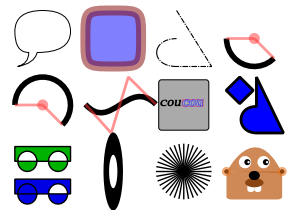
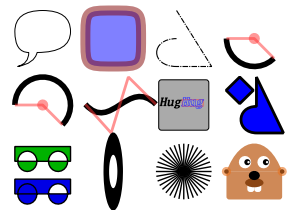
geometry: make line continuous in arcs and replace "coucou" with "HugHug" to test better ascent, descent and capheight of font

Changed region(s): [[0.7576, 0.6857, 0.9394, 0.8286], [0.5455, 0.4571, 0.697, 0.5143], [0.8182, 0.8, 0.8485, 0.8286]]

diff --git a/samples/geometry/geometry.go b/samples/geometry/geometry.go
@@ -80,7 +80,6 @@ func CurveRectangle(gc draw2d.GraphicContext, x0, y0,
 		}
 	}
 	gc.Close()
-
 	gc.SetStrokeColor(stroke)
 	gc.SetFillColor(fill)
 	gc.SetLineWidth(10.0)
@@ -125,9 +124,8 @@ func Arc(gc draw2d.GraphicContext, xc, yc, width, height float64) {
 	gc.SetFillColor(color.NRGBA{255, 0x33, 0x33, 0x80})
 	gc.SetLineWidth(width / 20)
 
-	gc.MoveTo(xc, yc)
-	gc.LineTo(xc+math.Cos(startAngle)*radiusX, yc+math.Sin(startAngle)*radiusY)
-	gc.MoveTo(xc, yc)
+	gc.MoveTo(xc+math.Cos(startAngle)*radiusX, yc+math.Sin(startAngle)*radiusY)
+	gc.LineTo(xc, yc)
 	gc.LineTo(xc-radiusX, yc)
 	gc.Stroke()
 
@@ -154,9 +152,8 @@ func ArcNegative(gc draw2d.GraphicContext, xc, yc, width, height float64) {
 	gc.SetFillColor(color.NRGBA{255, 0x33, 0x33, 0x80})
 	gc.SetLineWidth(width / 20)
 
-	gc.MoveTo(xc, yc)
-	gc.LineTo(xc+math.Cos(startAngle)*radiusX, yc+math.Sin(startAngle)*radiusY)
-	gc.MoveTo(xc, yc)
+	gc.MoveTo(xc+math.Cos(startAngle)*radiusX, yc+math.Sin(startAngle)*radiusY)
+	gc.LineTo(xc, yc)
 	gc.LineTo(xc-radiusX, yc)
 	gc.Stroke()
 
@@ -205,7 +202,7 @@ func FillString(gc draw2d.GraphicContext, x, y, width, height float64) {
 		Name:   "luxi",
 		Family: draw2d.FontFamilyMono,
 		Style:  draw2d.FontStyleBold | draw2d.FontStyleItalic})
-	w := gc.FillString("cou")
+	w := gc.FillString("Hug")
 	gc.Translate(w+sx, 0)
 	left, top, right, bottom := gc.GetStringBounds("cou")
 	gc.SetStrokeColor(color.NRGBA{255, 0x33, 0x33, 0x80})
@@ -215,7 +212,7 @@ func FillString(gc draw2d.GraphicContext, x, y, width, height float64) {
 	gc.SetFillColor(color.NRGBA{0x33, 0x33, 0xff, 0xff})
 	gc.SetStrokeColor(color.NRGBA{0x33, 0x33, 0xff, 0xff})
 	gc.SetLineWidth(height / 100)
-	gc.StrokeString("cou")
+	gc.StrokeString("Hug")
 	gc.Restore()
 }
 
